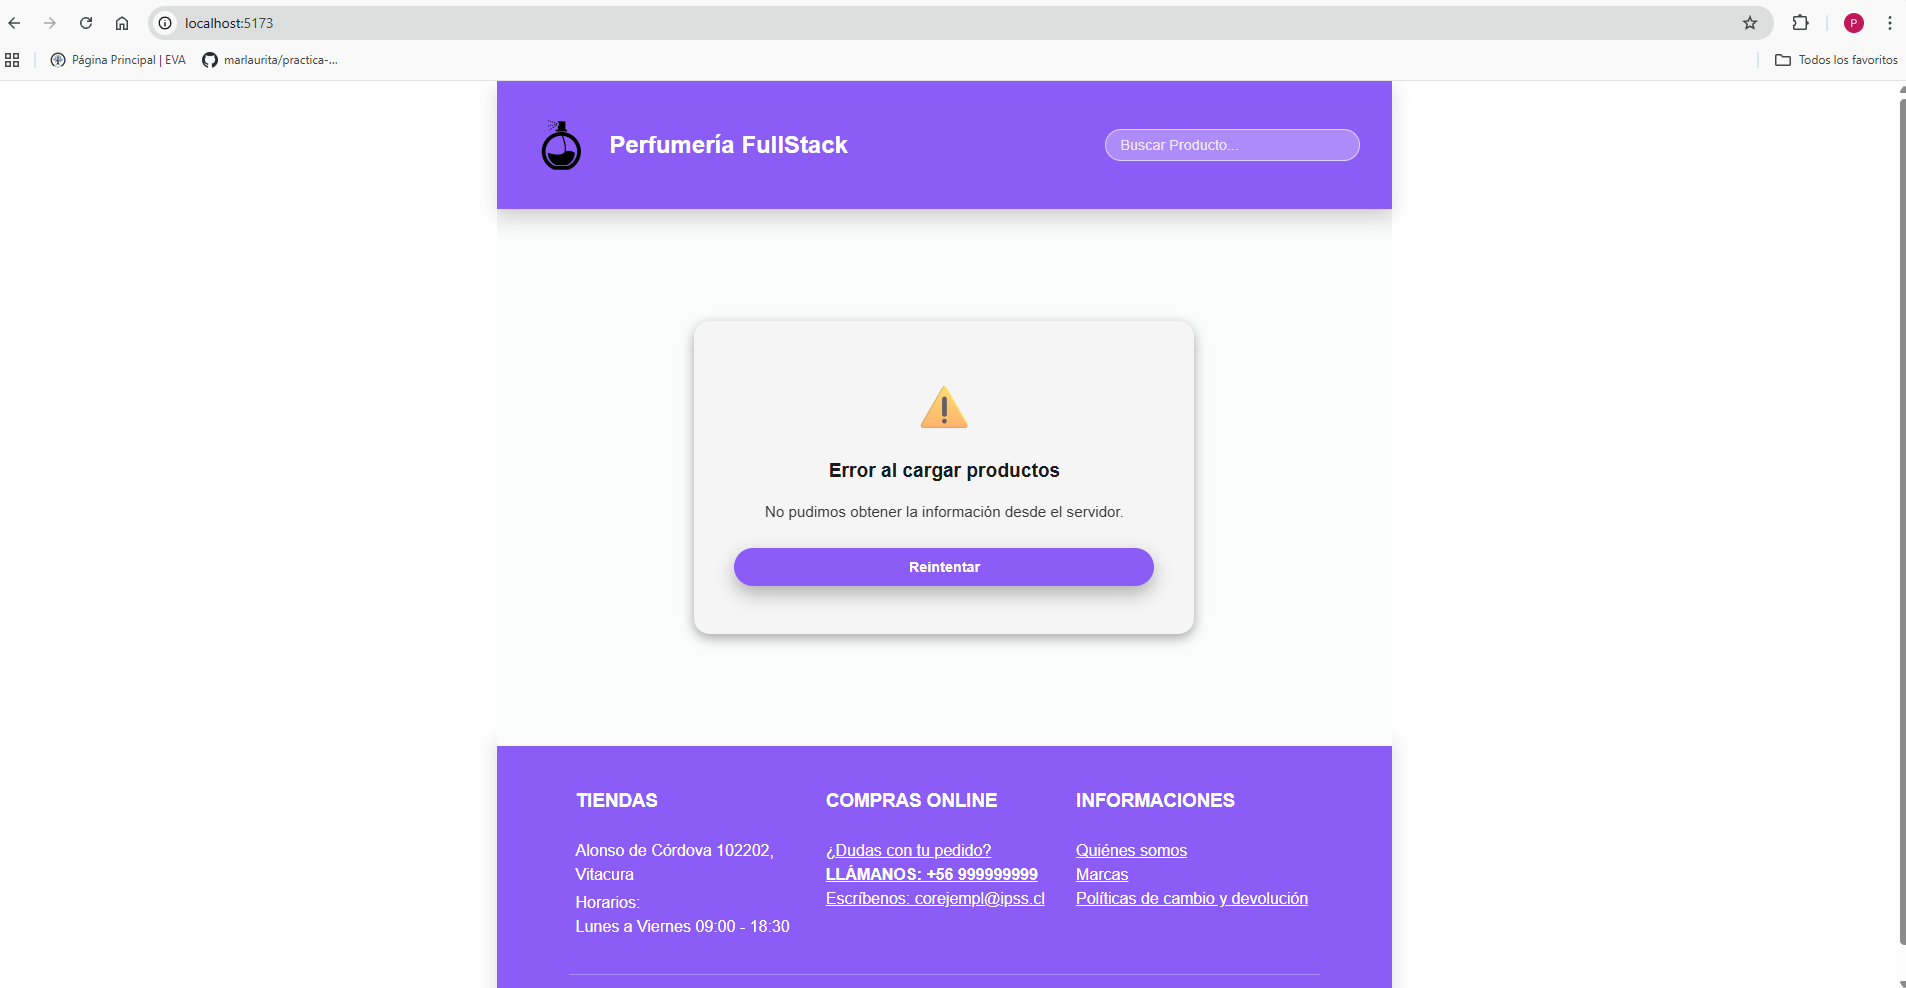
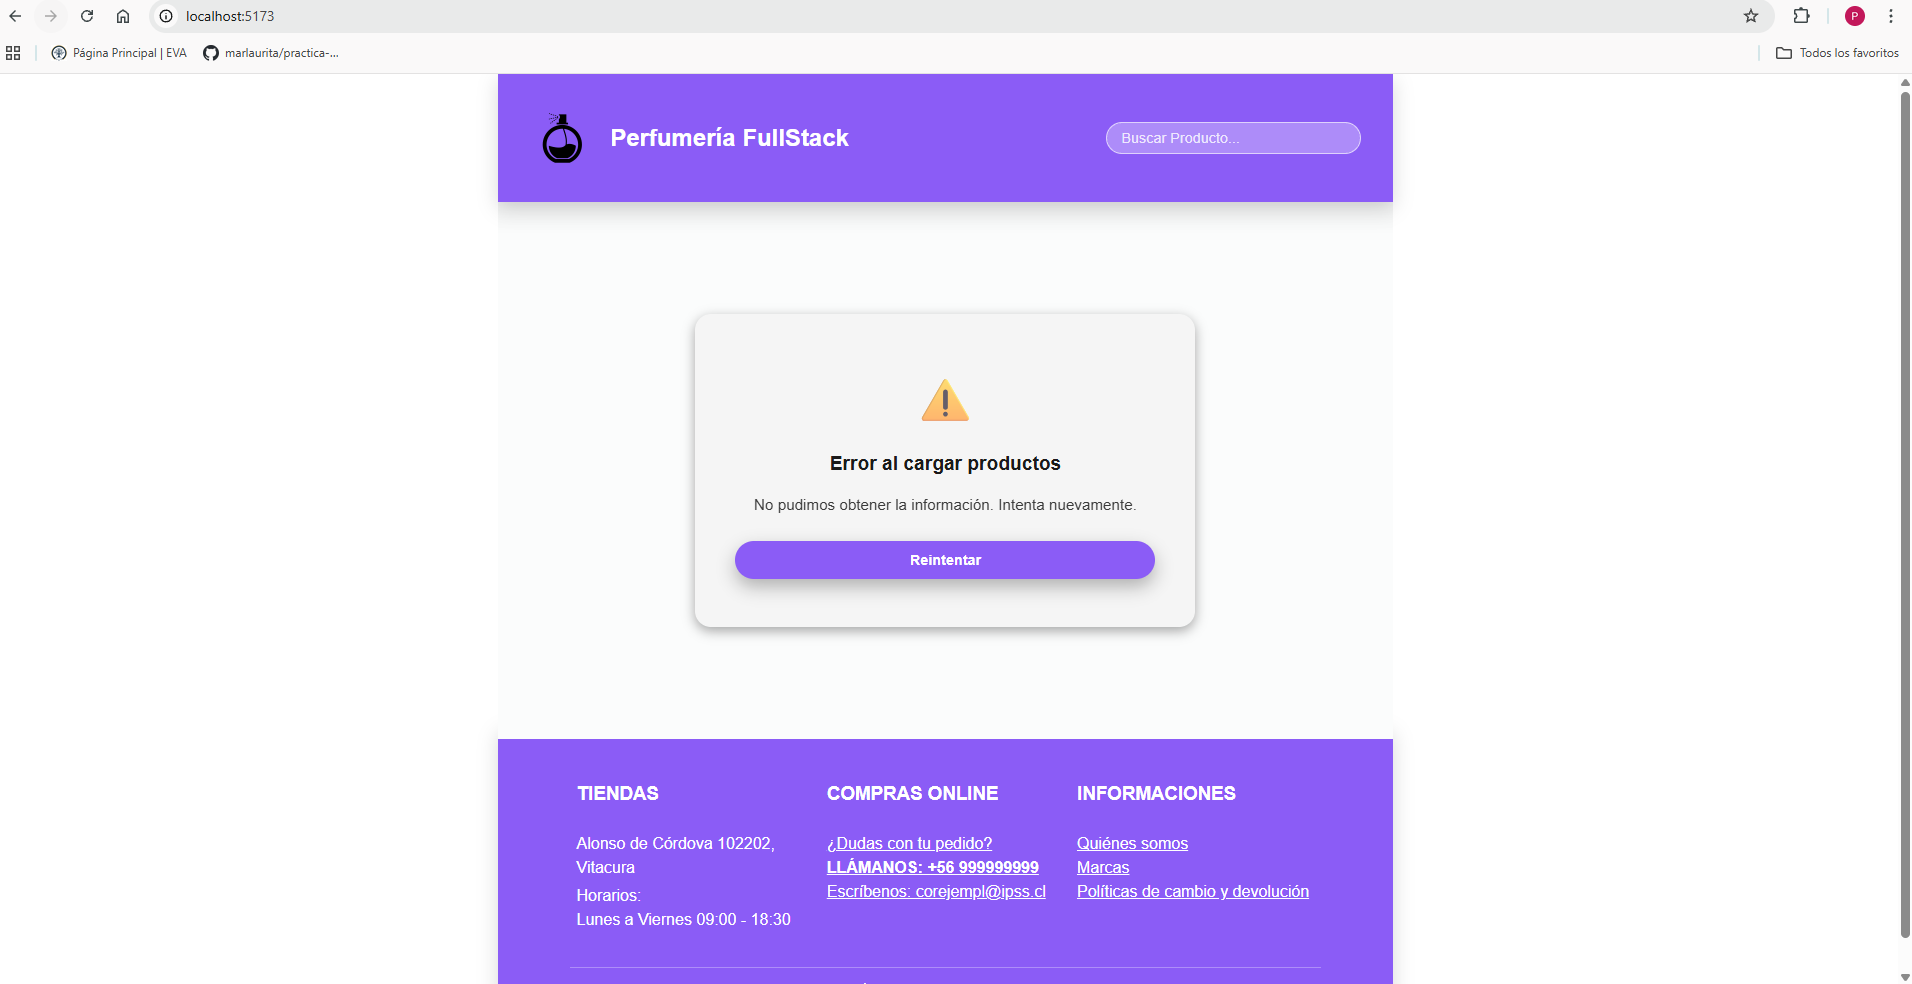
Se elimina componentes EmptyState y ErrorMessage. Se utilizará componente reutilizable StateMessage para ambos casos. Se cambian datos de nombre de la tienda a nivel visual, para la app se dejará el nombre que ya tenía

diff --git a/src/components/ProductList/ProductList.jsx b/src/components/ProductList/ProductList.jsx
@@ -1,10 +1,8 @@
 import ProductCard from '../ProductCard/ProductCard';
 import { useState } from 'react';
 import './ProductList.css';
-import EmptyState from '../EmptyState/EmptyState';
 import { useEffect } from 'react';
 import Loader from '../Loader/Loader';
-import ErrorMessage from '../ErrorMessage/ErrorMessage';
 import StateMessage from '../StateMessage/StateMessage';
 
 const delay = (ms) => new Promise(resolve => setTimeout(resolve, ms));
@@ -59,17 +57,11 @@ function ProductList({ searchTerm }) {
   if (error) {
     return (
       <section className="products-wrapper">
-        <ErrorMessage
-          title="Error al cargar productos"
-          description="No pudimos obtener la información desde el servidor."
-          icon="⚠"
-          onRetry={() => window.location.reload()}
-        />
         <StateMessage 
           type="error"
           icon="⚠"
           title="Error al cargar productos"
-          description="No pudimos obtener la información desde el servidor."
+          description="No pudimos obtener la información. Intenta nuevamente."
           actionLabel="Reintentar"
           onAction={() => window.location.reload()}
         />

diff --git a/src/components/Header/Header.jsx b/src/components/Header/Header.jsx
@@ -7,7 +7,7 @@ function Header( {searchValue, onSearchChange} ) {
     <header className="header" alt="Cabecera de página">
       <div className="logo">
         <span className="logo-icon"><img src={logo} className="logo-img" alt="Logo perfumería" /></span>
-        <span className="logo-text" alt="Nombre de la tienda">Perfumería FullStack</span>
+        <span className="logo-text" alt="Nombre de la tienda">Tiendita FullStack</span>
       </div>
       <SearchBar
         value={searchValue}

diff --git a/index.html b/index.html
@@ -4,7 +4,7 @@
     <meta charset="UTF-8" />
     <link rel="icon" type="image/svg+xml" href="/vite.svg" />
     <meta name="viewport" content="width=device-width, initial-scale=1.0" />
-    <title>Perfumería FullStack - Trabajo Diplomado</title>
+    <title>Tiendita FullStack - Trabajo Diplomado</title>
   </head>
   <body>
     <div id="root">

diff --git a/src/components/Footer/Footer.jsx b/src/components/Footer/Footer.jsx
@@ -34,7 +34,7 @@ function Footer() {
         </div>
       </div>
       <div className="footer-bottom" alt="Derechos reservados">
-        © 2026 - Perfumería FullStack, Todos Los Derechos Reservados
+        © 2026 - Tiendita FullStack, Todos Los Derechos Reservados
       </div>
     </footer>
   );

diff --git a/src/components/Header/Header.css b/src/components/Header/Header.css
@@ -12,14 +12,14 @@
 .logo {
   display: flex;
   align-items: center;
-  gap: 1rem;
-  font-size: 1.5rem;
+  gap: 1.5rem;
+  font-size: 1.2rem;
   font-weight: bold;
 }
 
 .logo-img {
   display: flex;
   align-items: center;
-  height: 4rem;
+  height: 5rem;
   width:auto;
 }

diff --git a/README.md b/README.md
@@ -2,11 +2,11 @@
 
 ## Nombre del proyecto
 
-Perfumería FullStack.
+Tiendita FullStack.
 
 ## Descripción
 
-Proyecto de e-commerce (perfumería) básico creado con React, enfocado en la creación de componentes reutilizables, los cuales se mencionan y explican brevemente a continuación.
+Proyecto de e-commerce básico creado con React, enfocado en la creación de componentes reutilizables, los cuales se mencionan y explican brevemente a continuación.
 
 ## Componentes
 
@@ -16,9 +16,8 @@ Proyecto de e-commerce (perfumería) básico creado con React, enfocado en la cr
 - ProductCard: Tarjeta individual de cada producto. Despliega información como una imagen, la categoría, nombre, precio y un botón para agregar al carrito (se emula) en caso de contar con stock. 
 - CategoryLabel: Etiqueta visual según categoría del producto.
 - ActionButton: Botón reutilizable que recibe un texto, evento 'onClick' y si está disponible o no (para habilitarlo o deshabilitarlo dependiendo del caso).
-- EmptyState: Componente reutilizable al cual se le puede entregar información acerca de una búsqueda que no obtuvo resultados. Recibe un Icono, titulo y descripción del mensaje que se desea mostrar en el recuadro dentro de la página.
-- ErrorMessage: Componente reutilizable que muestra un recuadro con un icono, mensaje de error y un botón funcional, el cual permite reintentar la carga fallida.
-- Loader: Muestra un texto e icono de carga. Se utiliza asociado al estado de carga de la información de productos obtenida a través de la API.
+- StateMessage: Componente reutilizable que permite mostrar un mensaje de estado de la aplicación. Para este caso, se utiliza para mostrar por ejemplo una búsqueda de productos sin resultados, o bien, un mensaje de error tras no poder conectarse a la Api exitosamente (error). Para el caso del error, el mensaje que se muestra es a nivel de usuario, no se despliegan mensajes con errores técnicos (se hizo orientada a un usuario, pero el componente permite enviar cualquier mensaje). Permite configurar icono, título, descripción y una acción opcional, adaptándose a distintos contextos presentes y futuros de la interfaz.
+- Loader: Muestra un texto e icono de carga. Se utiliza para mostrar al estado de carga de la información de productos obtenida a través de la API.
 - Footer: Pie de página de la aplicación. Contiene información básica de la tienda.
 
 ## Instrucciones para ejecutar el proyecto
@@ -47,11 +46,13 @@ Proyecto de e-commerce (perfumería) básico creado con React, enfocado en la cr
 ![Vista principal 2](./src/assets/images/screenshots/web_perfumeria_fullstack_2.png)
 **Vista al agregar un producto al carrito**
 ![Producto agregado al carrito (manejo de estados)](./src/assets/images/screenshots/web_perfumeria_fullstack_producto_carrito_3.png)
-**Vista despliega solo 1 producto en un tamaño de pantalla más pequeño (mobile).**
-![Despliega 1 solo producto al establecer un tamaño de pantalla más pequeño](./src/assets/images/screenshots/web_1_producto_por_fila_4.
-png)
-![Despliega 1 solo producto al establecer un tamaño de pantalla más pequeño](./src/assets/images/screenshots/web_1_producto_por_fila_5.
-png)
+**Vista despliega solo 1 producto en un tamaño de pantalla más pequeño 1 (mobile).**
+![Despliega 1 solo producto al establecer un tamaño de pantalla más pequeño](./src/assets/images/screenshots/web_1_producto_por_fila_4.png)
+**Vista despliega solo 1 producto en un tamaño de pantalla más pequeño 2 (mobile).**
+![Despliega 1 solo producto al establecer un tamaño de pantalla más pequeño](./src/assets/images/screenshots/web_1_producto_por_fila_5.png)
 **Vista ejecuta Loader.**
 ![Vista ejecuta Loader](./src/assets/images/screenshots/web_perfumeria_fullstack_loader_6.png)
 **Vista ejecuta mensaje de error tras no poder conectarse a la API.**
+![Vista ejecuta envío de estado de error](./src/assets/images/screenshots/web_perfumeria_fullstack_error_7.png)
+**Vista ejecuta mensaje de productos no encontrados**
+![Vista ejecuta envío de estado de error](./src/assets/images/screenshots/web_perfumeria_fullstack_productos_no_encontrados_8.png)
